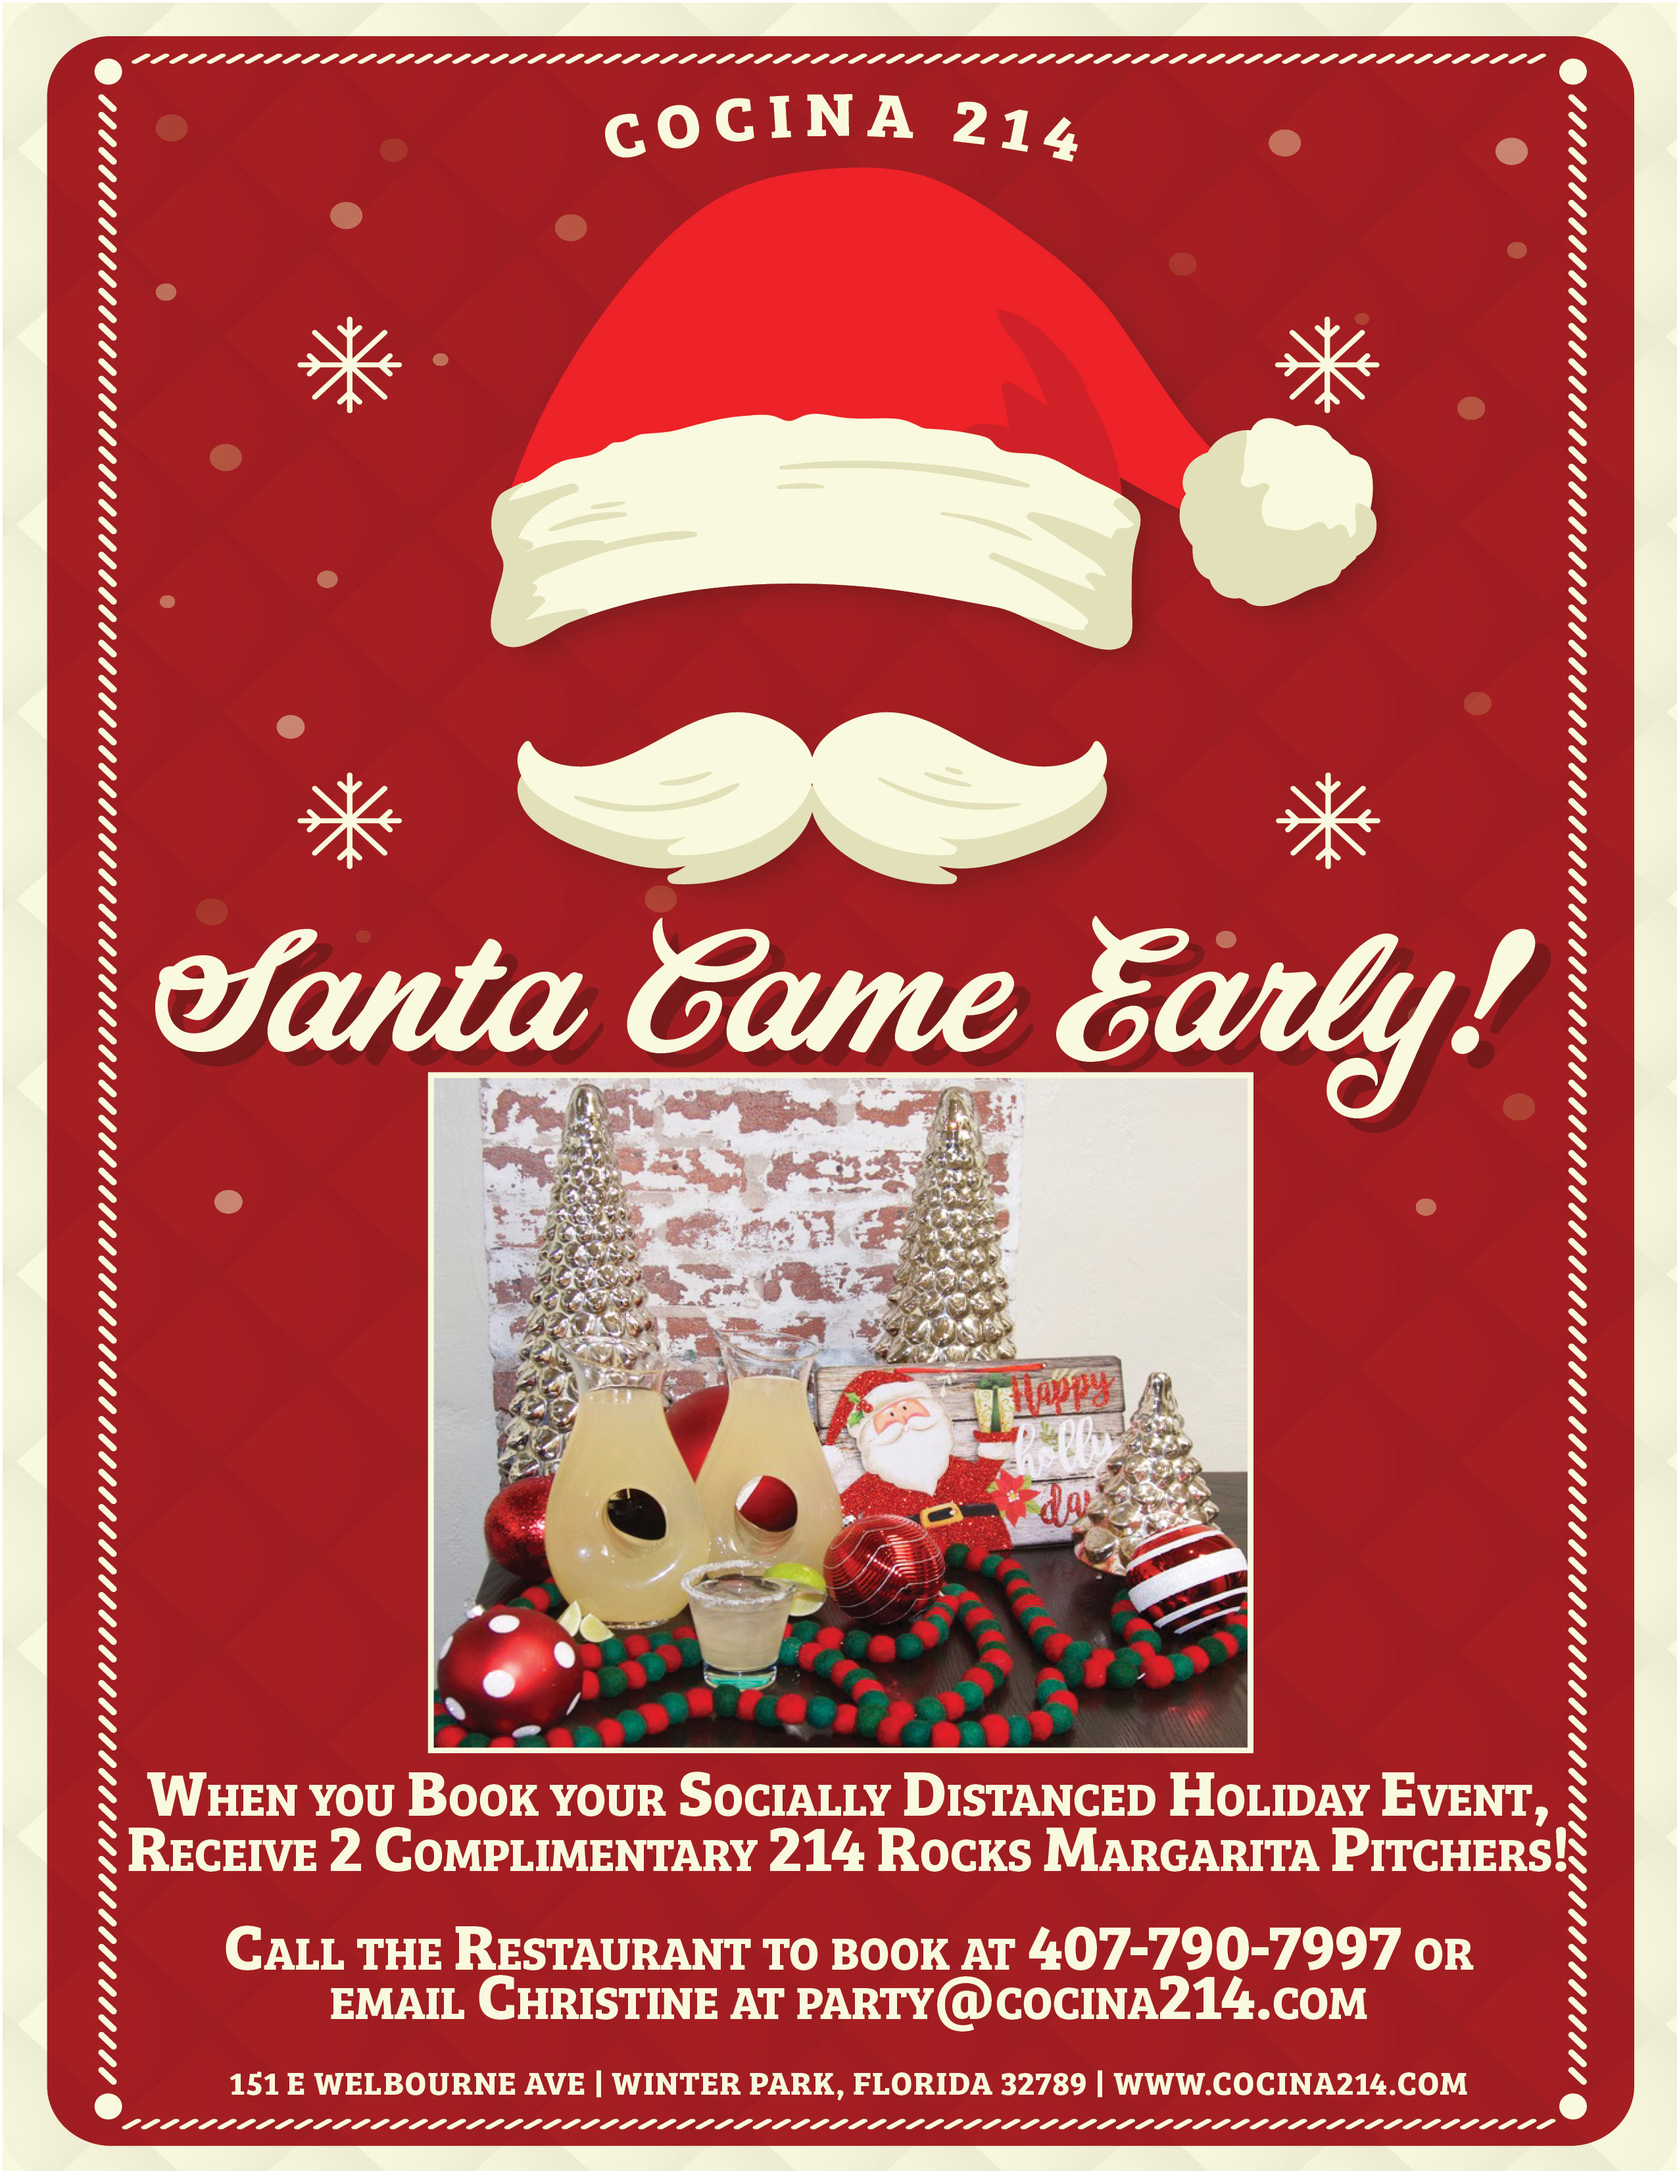
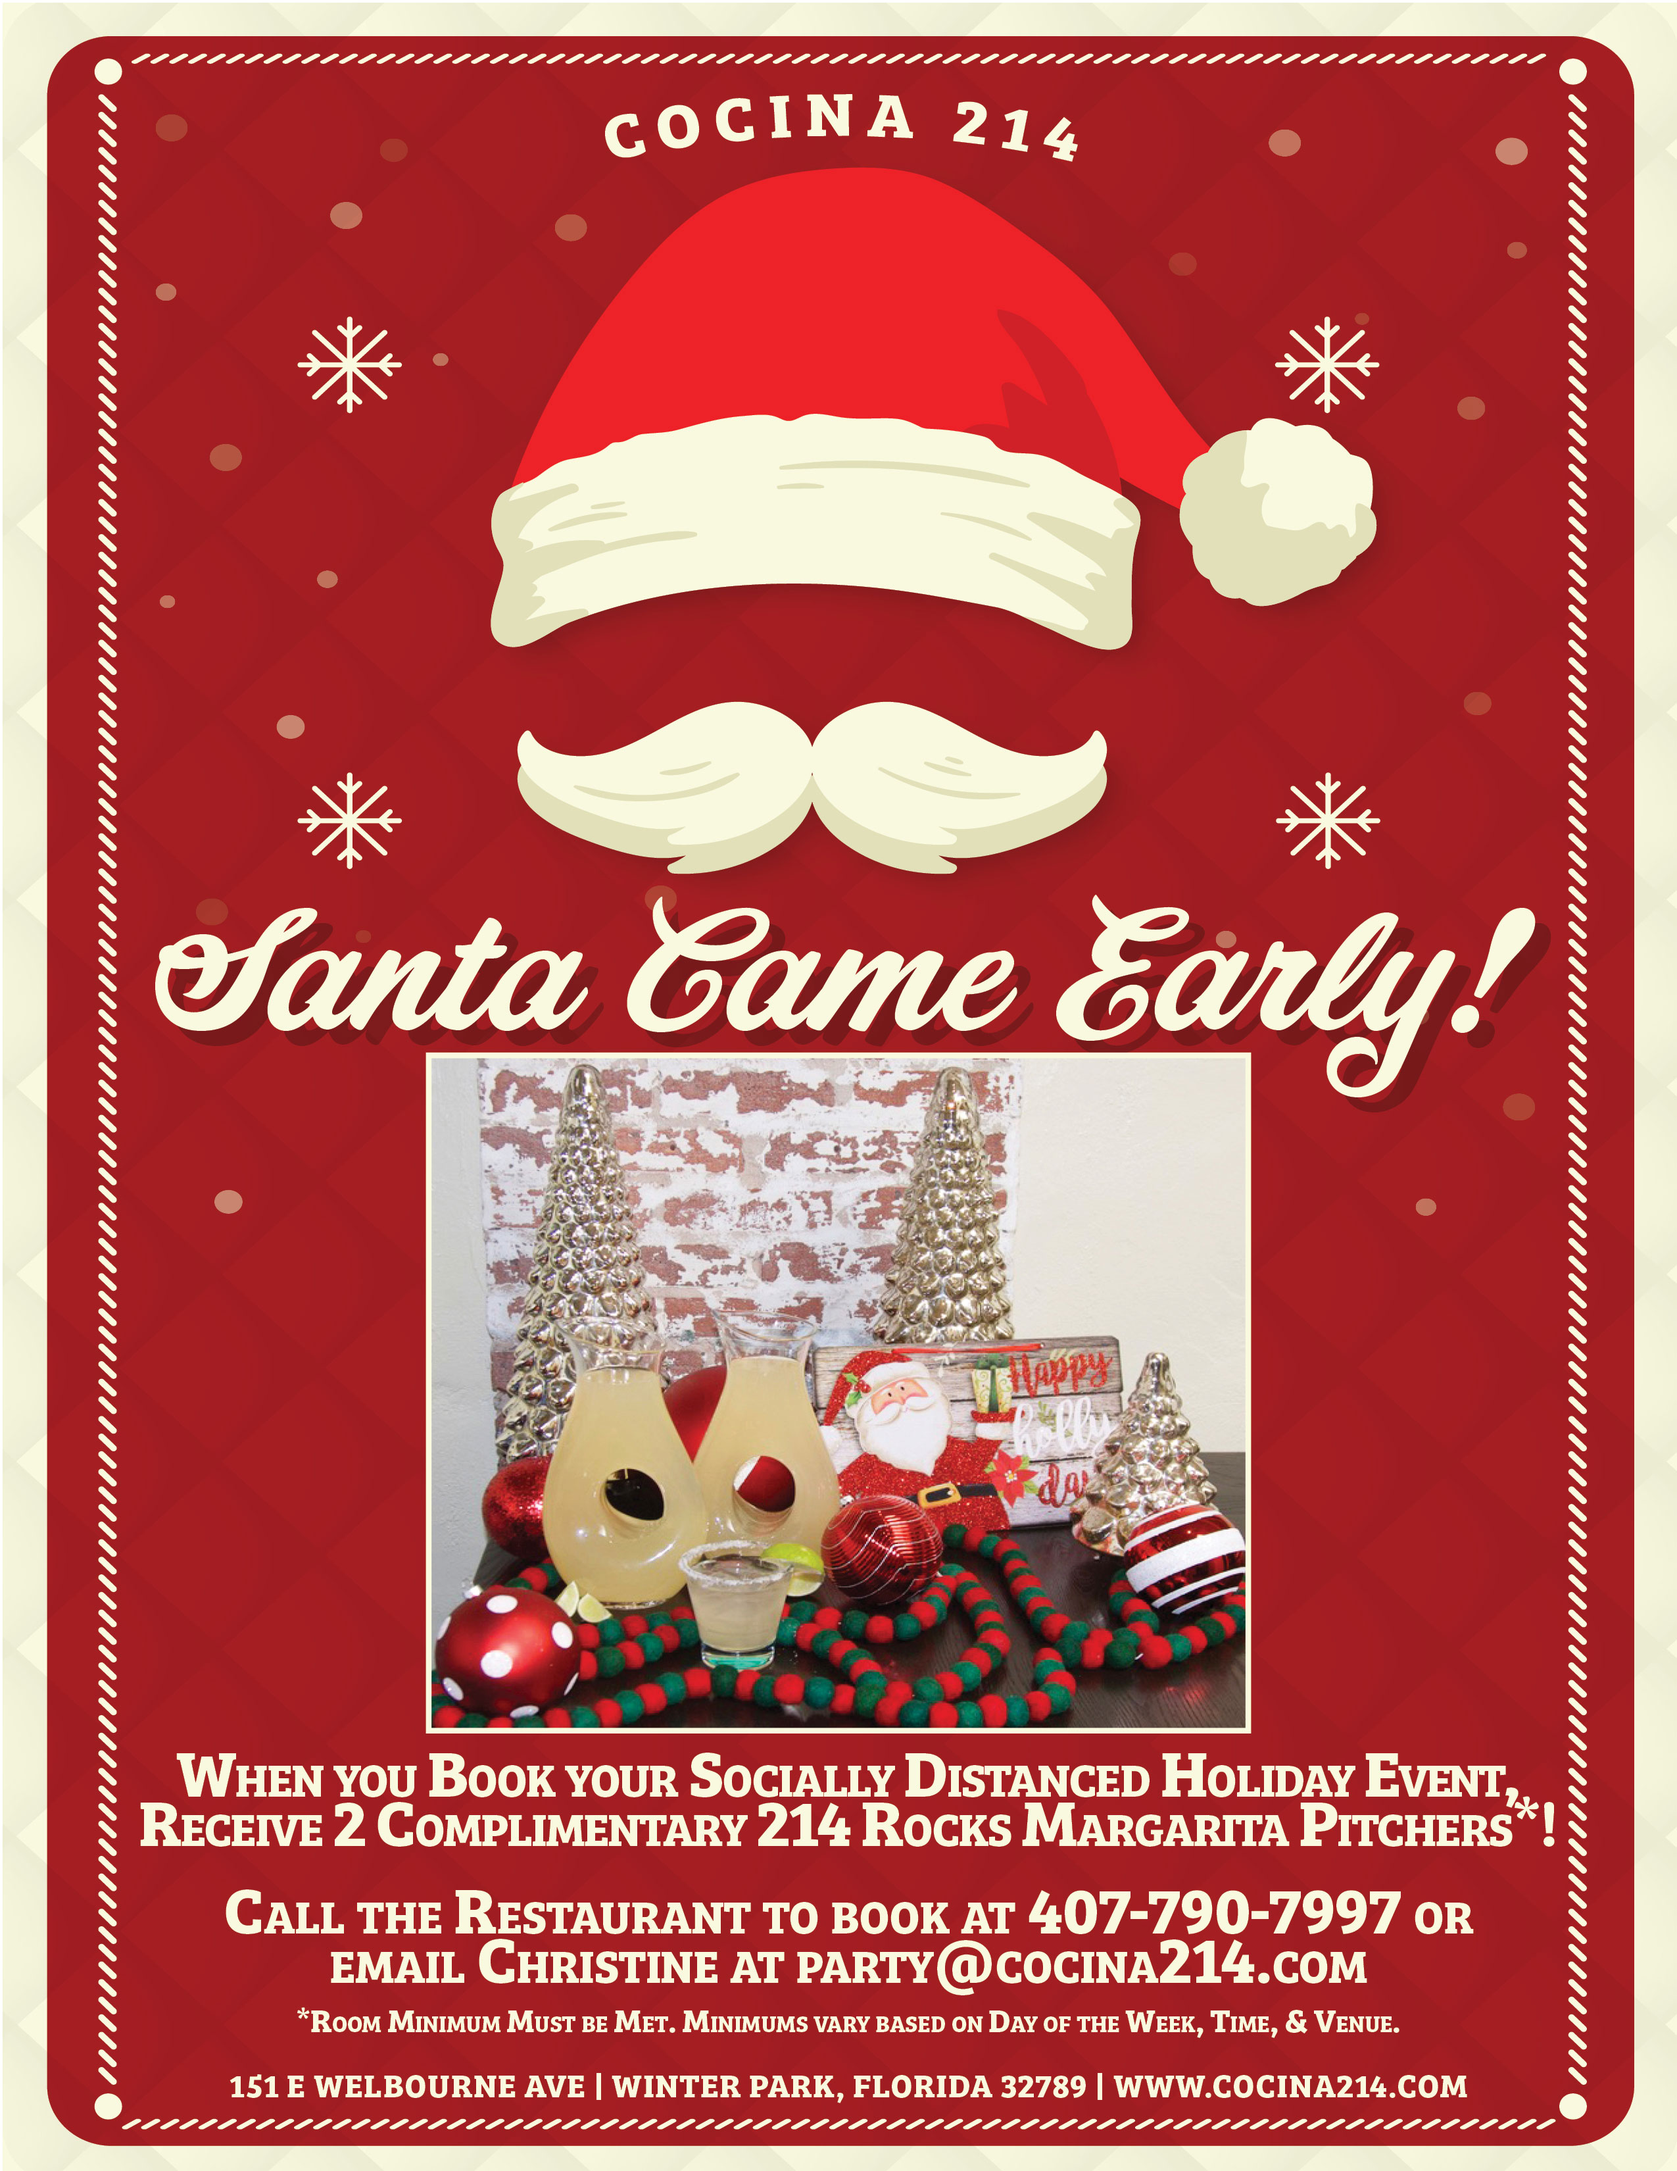
Update from Forestry.io Lambrine Macejewski created content/news/santa-came-early-to-cocina-214.md Lambrine Macejewski created static/uploads/2020/12/01/santa-came-early-promo-2020.jpg

Changed region(s): [[0.062, 0.3121, 0.9294, 0.9676]]

diff --git a/content/news/santa-came-early-to-cocina-214.md b/content/news/santa-came-early-to-cocina-214.md
@@ -1,0 +1,19 @@
++++
+additional_info = ""
+category = "current"
+date = 2020-12-01T18:35:01Z
+draft = true
+featured_photo = ""
+photos = []
+title = "Santa Came Early to Cocina 214!"
+video_key = ""
+
++++
+**SANTA CAME EARLY TO COCINA 214!!**
+
+When you Book your Socially Distanced Holiday Event, ___Receive 2 Complimentary 214 Rocks Margarita Pitchers*___! Enjoy our Best Selling Margarita this Holiday Season.
+
+  
+Call the Restaurant to book your Event at 407-790-7997 or email Christine at party@cocina214.com
+
+\*Room Minimum Must be Met. Minimums vary based on Day of the Week, Time and Venue.
